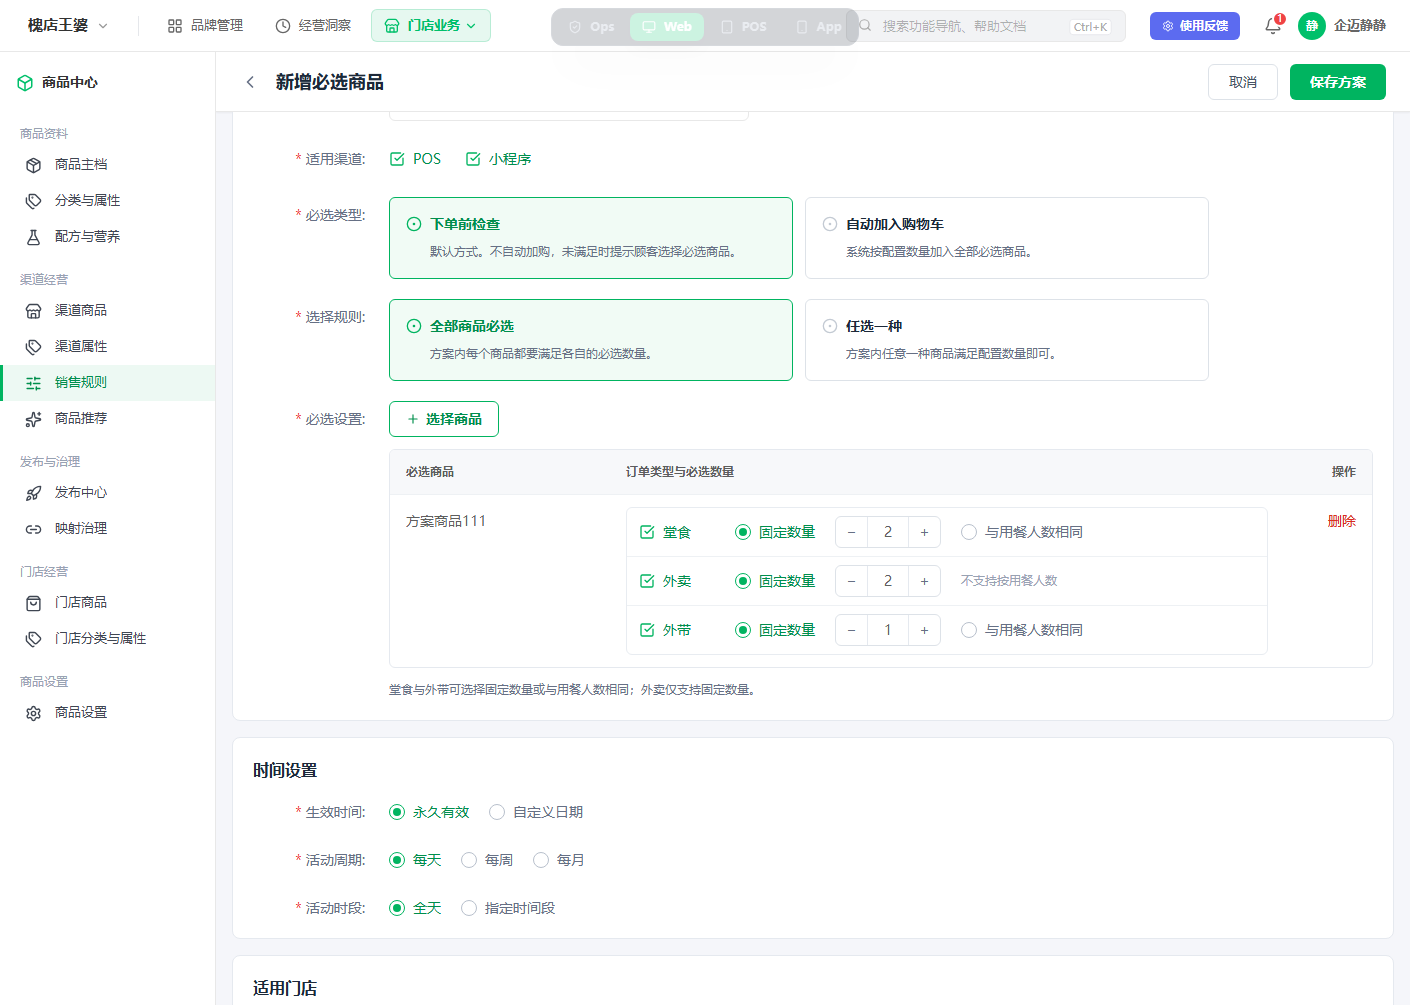
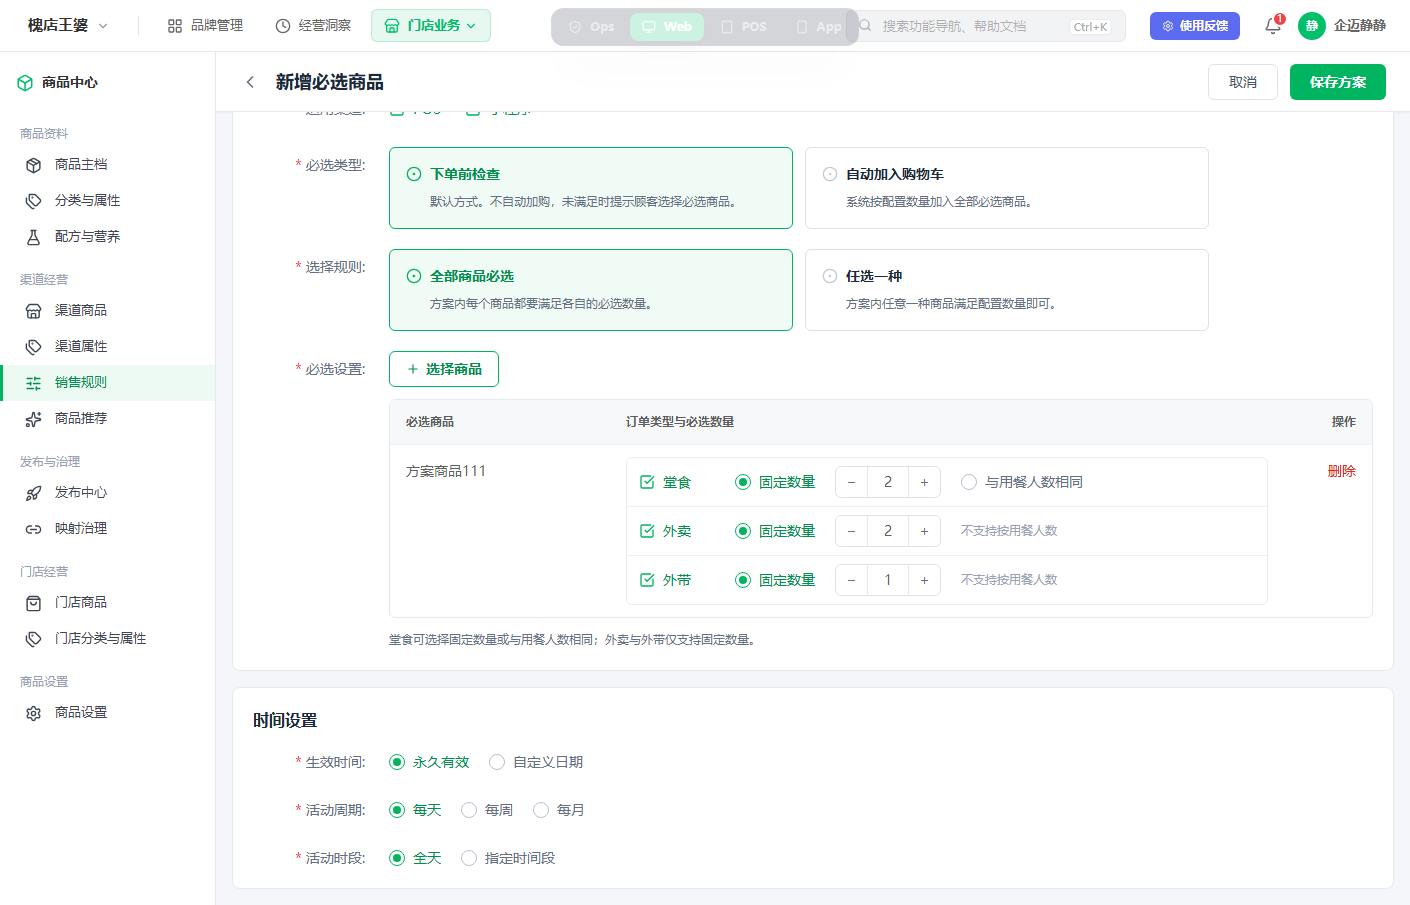
fix: 外带必选数量仅支持固定值

diff --git a/components/web/WebRequiredProductPolicyEditor.tsx b/components/web/WebRequiredProductPolicyEditor.tsx
@@ -20,8 +20,6 @@ type RequiredItemRow = {
   takeawayEnabled: boolean;
   takeoutEnabled: boolean;
   dineInQuantityMode: QuantityMode;
-  takeawayQuantityMode: QuantityMode;
-  takeoutQuantityMode: QuantityMode;
   dineInCount: number;
   takeawayCount: number;
   takeoutCount: number;
@@ -67,8 +65,6 @@ const createRequiredItemRow = (name: string, id: string): RequiredItemRow => {
     takeawayEnabled: id === 'item-1',
     takeoutEnabled: false,
     dineInQuantityMode: 'fixed',
-    takeawayQuantityMode: 'fixed',
-    takeoutQuantityMode: 'fixed',
     dineInCount: id === 'item-1' ? 2 : 1,
     takeawayCount: id === 'item-1' ? 2 : 1,
     takeoutCount: 1,
@@ -160,8 +156,8 @@ export const WebRequiredProductPolicyEditor: React.FC<{
     }
     if (requiredRows.some(row =>
       (row.dineInEnabled && row.dineInQuantityMode === 'fixed' && row.dineInCount < 1)
-      || (row.takeawayEnabled && row.takeawayQuantityMode === 'fixed' && row.takeawayCount < 1)
-      || (row.takeoutEnabled && row.takeoutQuantityMode === 'fixed' && row.takeoutCount < 1)
+      || (row.takeawayEnabled && row.takeawayCount < 1)
+      || (row.takeoutEnabled && row.takeoutCount < 1)
     )) return setFeedback({ kind: 'error', text: '固定必选数量必须大于 0' });
     if (effectiveMode === 'custom' && (!effectiveStart || !effectiveEnd || effectiveStart > effectiveEnd)) {
       return setFeedback({ kind: 'error', text: '请设置正确的生效日期范围' });
@@ -328,8 +324,8 @@ export const WebRequiredProductPolicyEditor: React.FC<{
                             <td className="px-4 py-3">
                               <div className="overflow-hidden rounded-md border border-[#E8ECF1]">
                                 <OrderQuantitySetting label="堂食" active={row.dineInEnabled} supportsDiners mode={row.dineInQuantityMode} count={row.dineInCount} onToggle={() => updateRow(row.id, current => ({ ...current, dineInEnabled: !current.dineInEnabled }))} onModeChange={next => updateRow(row.id, current => ({ ...current, dineInQuantityMode: next }))} onDecrease={() => updateRow(row.id, current => ({ ...current, dineInCount: Math.max(1, current.dineInCount - 1) }))} onIncrease={() => updateRow(row.id, current => ({ ...current, dineInCount: current.dineInCount + 1 }))} />
-                                <OrderQuantitySetting label="外卖" active={row.takeawayEnabled} mode={row.takeawayQuantityMode} count={row.takeawayCount} onToggle={() => updateRow(row.id, current => ({ ...current, takeawayEnabled: !current.takeawayEnabled }))} onModeChange={next => updateRow(row.id, current => ({ ...current, takeawayQuantityMode: next }))} onDecrease={() => updateRow(row.id, current => ({ ...current, takeawayCount: Math.max(1, current.takeawayCount - 1) }))} onIncrease={() => updateRow(row.id, current => ({ ...current, takeawayCount: current.takeawayCount + 1 }))} />
-                                <OrderQuantitySetting label="外带" active={row.takeoutEnabled} supportsDiners mode={row.takeoutQuantityMode} count={row.takeoutCount} onToggle={() => updateRow(row.id, current => ({ ...current, takeoutEnabled: !current.takeoutEnabled }))} onModeChange={next => updateRow(row.id, current => ({ ...current, takeoutQuantityMode: next }))} onDecrease={() => updateRow(row.id, current => ({ ...current, takeoutCount: Math.max(1, current.takeoutCount - 1) }))} onIncrease={() => updateRow(row.id, current => ({ ...current, takeoutCount: current.takeoutCount + 1 }))} />
+                                <OrderQuantitySetting label="外卖" active={row.takeawayEnabled} count={row.takeawayCount} onToggle={() => updateRow(row.id, current => ({ ...current, takeawayEnabled: !current.takeawayEnabled }))} onDecrease={() => updateRow(row.id, current => ({ ...current, takeawayCount: Math.max(1, current.takeawayCount - 1) }))} onIncrease={() => updateRow(row.id, current => ({ ...current, takeawayCount: current.takeawayCount + 1 }))} />
+                                <OrderQuantitySetting label="外带" active={row.takeoutEnabled} count={row.takeoutCount} onToggle={() => updateRow(row.id, current => ({ ...current, takeoutEnabled: !current.takeoutEnabled }))} onDecrease={() => updateRow(row.id, current => ({ ...current, takeoutCount: Math.max(1, current.takeoutCount - 1) }))} onIncrease={() => updateRow(row.id, current => ({ ...current, takeoutCount: current.takeoutCount + 1 }))} />
                               </div>
                             </td>
                             <td className="px-4 py-4 text-right"><button onClick={() => setRemoveRowId(row.id)} className="font-medium text-[#D92D20] hover:text-[#B42318]">删除</button></td>
@@ -339,7 +335,7 @@ export const WebRequiredProductPolicyEditor: React.FC<{
                       </tbody>
                     </table>
                   </div>
-                  <p className="text-xs leading-5 text-[#667085]">堂食与外带可选择固定数量或与用餐人数相同；外卖仅支持固定数量。{selectionRule === 'anyOne' && ' 下单时任一候选商品达到对应数量即视为本方案满足。'}</p>
+                  <p className="text-xs leading-5 text-[#667085]">堂食可选择固定数量或与用餐人数相同；外卖与外带仅支持固定数量。{selectionRule === 'anyOne' && ' 下单时任一候选商品达到对应数量即视为本方案满足。'}</p>
                 </div>
               </EditorRow>
             </div>
@@ -465,17 +461,17 @@ const ChoiceCard = ({ selected, title, description, onClick, disabled = false }:
   <button type="button" onClick={onClick} disabled={disabled} className={`rounded-md border p-4 text-left ${disabled ? 'cursor-not-allowed border-[#E5E9EF] bg-[#F7F8FA] opacity-60' : selected ? 'border-[#00B460] bg-[#F1FBF5]' : 'border-[#DDE2E8] bg-white hover:border-[#AEB8C5]'}`}><div className={`flex items-center gap-2 text-sm font-semibold ${disabled ? 'text-[#98A2B3]' : selected ? 'text-[#008F4C]' : 'text-[#1D2939]'}`}><CircleDot size={16} className={disabled ? 'text-[#C3CAD3]' : selected ? 'text-[#00B460]' : 'text-[#C3CAD3]'} />{title}</div><div className="mt-2 pl-6 text-xs leading-5 text-[#667085]">{description}</div></button>
 );
 
-const OrderQuantitySetting = ({ label, active, supportsDiners = false, mode, count, onToggle, onModeChange, onDecrease, onIncrease }: { label: string; active: boolean; supportsDiners?: boolean; mode: QuantityMode; count: number; onToggle: () => void; onModeChange: (mode: QuantityMode) => void; onDecrease: () => void; onIncrease: () => void }) => (
+const OrderQuantitySetting = ({ label, active, supportsDiners = false, mode = 'fixed', count, onToggle, onModeChange, onDecrease, onIncrease }: { label: string; active: boolean; supportsDiners?: boolean; mode?: QuantityMode; count: number; onToggle: () => void; onModeChange?: (mode: QuantityMode) => void; onDecrease: () => void; onIncrease: () => void }) => (
   <div className="grid min-h-12 grid-cols-[96px_minmax(0,1fr)] items-center border-t border-[#EEF1F4] px-3 first:border-t-0">
     <CheckOption checked={active} onClick={onToggle} label={label} />
     <div className={`flex min-w-0 items-center gap-5 py-2 transition-opacity ${active ? '' : 'pointer-events-none opacity-40'}`}>
-      <RadioOption checked={!supportsDiners || mode === 'fixed'} onClick={() => onModeChange('fixed')} label="固定数量" />
+      <RadioOption checked={!supportsDiners || mode === 'fixed'} onClick={() => onModeChange?.('fixed')} label="固定数量" />
       <div className={`inline-flex h-8 items-center overflow-hidden rounded-md border border-[#DDE2E8] bg-white ${supportsDiners && mode !== 'fixed' ? 'invisible' : ''}`}>
         <button type="button" onClick={onDecrease} disabled={!active} aria-label={`${label}必选数量减一`} className="h-8 w-8 border-r border-[#E5E9EF] text-[#667085] hover:bg-[#F7F8FA] disabled:cursor-not-allowed">−</button>
         <div className="w-10 text-center text-sm tabular-nums">{count}</div>
         <button type="button" onClick={onIncrease} disabled={!active} aria-label={`${label}必选数量加一`} className="h-8 w-8 border-l border-[#E5E9EF] text-[#667085] hover:bg-[#F7F8FA] disabled:cursor-not-allowed">＋</button>
       </div>
-      {supportsDiners ? <RadioOption checked={mode === 'diners'} onClick={() => onModeChange('diners')} label="与用餐人数相同" /> : <span className="text-xs text-[#98A2B3]">不支持按用餐人数</span>}
+      {supportsDiners ? <RadioOption checked={mode === 'diners'} onClick={() => onModeChange?.('diners')} label="与用餐人数相同" /> : <span className="text-xs text-[#98A2B3]">不支持按用餐人数</span>}
     </div>
   </div>
 );

diff --git a/docs/需求文档/必选商品/P01-必选商品方案与门店执行.md b/docs/需求文档/必选商品/P01-必选商品方案与门店执行.md
@@ -1,11 +1,11 @@
 # P01 必选商品方案与适用门店 PRD
 
 > 文档状态：方案评审稿
-> 文档版本：v1.10
-> 更新时间：2026-09-10
+> 文档版本：v1.11
+> 更新时间：2026-09-20
 > 原型范围：品牌必选商品列表、品牌方案新建/编辑、特例设置
 > 飞书文档：[必选商品方案 PRD](https://qmai.feishu.cn/docx/DRQOdYvSuoqf4Gxh8olcy7SbnGe)
-> 飞书同步：2026-09-10 已同步 v1.10（回读校验通过）
+> 飞书同步：2026-09-20 已同步 v1.11（回读校验通过）
 
 ## 1. 背景与问题
 
@@ -26,7 +26,7 @@
 2. 补齐正餐必选方案中的渠道、桌位类型、门店桌位区域、时间和高级设置能力，同时保持饮食客户默认配置简单。
 3. 支持“自动加入购物车”和“下单前检查”两种必选类型。
 4. 支持“全部商品必选”和“任选一种”两种选择规则；“任选一种”仅适用于下单前检查。
-5. 堂食、外卖与外带按商品分别启用并配置必选数量；堂食和外带支持固定数量或按用餐人数，外卖仅支持固定数量。
+5. 堂食、外卖与外带按商品分别启用并配置必选数量；堂食支持固定数量或按用餐人数，外卖与外带仅支持固定数量。
 6. 小程序与联网 POS 直接读取品牌最新有效方案；POS 断网仍可按最近成功缓存执行。
 7. 特例设置保持品牌唯一配置，解决只购买饮料、米饭等商品时无需重复选择必选商品的问题；该设置只豁免必选商品方案，不影响分类必选。
 8. 为历史正餐客户提供可追溯、可回滚的数据迁移方案。
@@ -218,13 +218,13 @@ flowchart TD
 | 数量模式 | 堂食 | 外卖 | 外带 | 规则 |
 | --- | --- | --- | --- | --- |
 | 固定数量 | 支持 | 支持 | 支持 | 数量为大于 0 的整数 |
-| 与用餐人数相同 | 支持 | 不支持 | 支持 | 与各自固定数量互斥；外卖不提供该可选项 |
+| 与用餐人数相同 | 支持 | 不支持 | 不支持 | 与堂食固定数量互斥；外卖、外带不提供该可选项 |
 
-堂食和外带均有用餐人数，支持在“固定数量”和“与用餐人数相同”之间二选一。外卖没有用餐人数，仅支持固定数量；为避免把能力缺失误解为当前方案未启用，固定在外卖行显示“不支持按用餐人数”，不使用“不使用用餐人数”等状态型文案。未启用的订单类型保留整行但降低数量区域强调，便于用户随时开启，同时不误认为数量配置已生效。
+堂食支持在“固定数量”和“与用餐人数相同”之间二选一。外卖和外带都仅支持固定数量；为避免把能力缺失误解为当前方案未启用，固定在外卖、外带行显示“不支持按用餐人数”，不使用“不使用用餐人数”等状态型文案。未启用的订单类型保留整行但降低数量区域强调，便于用户随时开启，同时不误认为数量配置已生效。
 
 ![图 6-3 订单类型与必选数量同行配置](./assets/P01/12-order-type-takeout.png)
 
-*图 6-3：堂食、外卖、外带逐行开启，数量规则与对应订单类型保持在同一行；堂食和外带支持按用餐人数，外卖明确提示不支持。*
+*图 6-3：堂食、外卖、外带逐行开启，数量规则与对应订单类型保持在同一行；仅堂食支持按用餐人数，外卖、外带明确提示不支持。*
 
 “自动加入购物车”固定使用“全部商品必选”，按设置的每个商品分别加入。“下单前检查”可选择“全部商品必选”或“任选一种”：前者要求每个商品都达到其配置数量；后者只需任意一种候选商品达到其配置数量。切换为自动加入购物车时，系统自动把选择规则恢复为“全部商品必选”。
 
@@ -406,7 +406,7 @@ flowchart TD
 | TC-03B | 自动加入模式打开商品选择器 | 多规格、含做法或含加料商品被过滤，不出现在候选列表中 |
 | TC-03C | 已选不兼容商品后切换自动加入 | 不切换类型，提示先移除不兼容商品 |
 | TC-03D | 单个商品启用外带并配置 2 份 | 外带订单按 2 份执行，堂食/外卖配置不受影响 |
-| TC-03E | 外带数量配置 | 可在固定数量和与用餐人数相同之间切换，选择后只执行当前模式 |
+| TC-03E | 外带数量配置 | 仅支持固定数量，并展示“不支持按用餐人数” |
 | TC-03F | 外卖数量配置 | 仅支持固定数量，并展示“不支持按用餐人数” |
 | TC-04 | 下单前检查，4 个口味至少选 1 个 | 未选时提示，任一候选满足后通过 |
 | TC-04A | 下单前检查并选择全部商品必选 | 每个设置商品均达到对应数量后通过 |
@@ -436,7 +436,7 @@ flowchart TD
 2. 列表展示适用门店，不出现下发、最近下发、同步状态或门店调整标签。
 3. 新建/编辑页包含渠道、必选类型、选择规则、商品与堂食/外卖/外带数量、时间、适用门店、门店桌位区域和高级设置；桌位类型不在基础设置展示。
 4. 新建方案默认下单前检查；保存成功后返回列表、生成方案 ID 和 V1 记录且默认启用；自动加入购物车只允许全部商品必选且只允许单规格、无做法、无加料商品，选择器过滤不兼容商品并说明筛选条件，类型切换和保存均有兜底校验。
-5. 堂食和外带支持固定数量或与用餐人数相同；外卖仅支持固定数量，并显示“不支持按用餐人数”。
+5. 堂食支持固定数量或与用餐人数相同；外卖与外带仅支持固定数量，并显示“不支持按用餐人数”。
 6. 桌位类型限定位于高级设置，默认关闭且不预选全部；开启后必须显式选择至少一个类型。
 7. 适用门店使用统一选择器，至少选择一家并按具体门店 ID 保存；桌位区域限定默认关闭，开启后必须按每个已选门店分别配置至少一个本店区域。
 8. 保存后小程序与联网 POS 可按当前门店读取品牌最新有效规则，无门店业务副本。
@@ -444,7 +444,7 @@ flowchart TD
 10. 特例设置不选择门店，并使用系统通用商品选择器；纯特例订单仅跳过必选商品方案，分类必选始终按自身规则独立执行；混合订单正常执行必选商品方案校验，取消编辑不更新已保存配置。
 11. POS 断网使用完整缓存，缓存失败不覆盖上一成功版本。
 12. 饮食历史规则无损保留；正餐门店副本可聚合、拆分、追溯和回滚。
-13. 订单类型与必选数量按堂食、外卖、外带同行配置；堂食和外带支持固定数量或按人数，外卖仅支持固定数量。
+13. 订单类型与必选数量按堂食、外卖、外带同行配置；仅堂食支持固定数量或按人数，外卖与外带仅支持固定数量。
 14. 原型通过 1440px、长方案名、长门店名、空状态、无权限和保存中状态验收。
 
 ## 13. 待确认项
